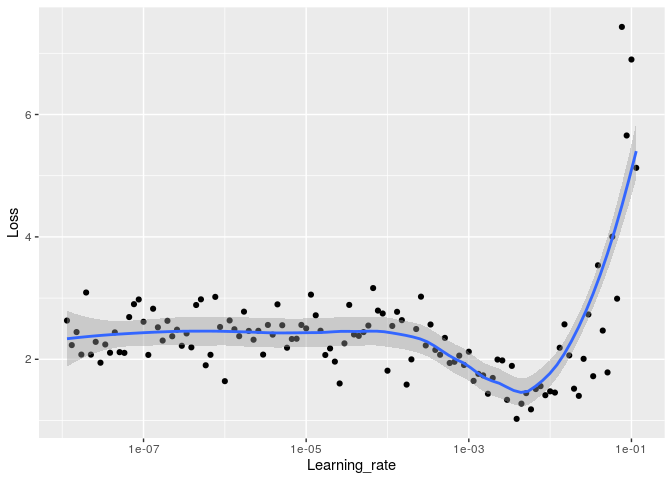
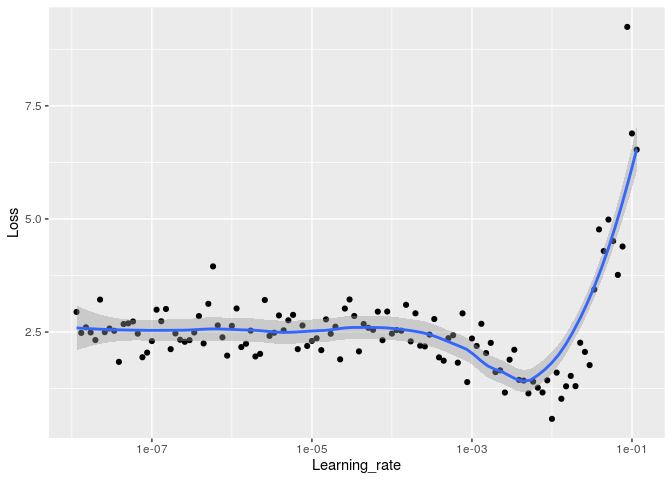
Lower minimum learning rate improve the performance of the network

diff --git a/resnet50-lr-finder-and-cyclic-lr-with-r.md b/resnet50-lr-finder-and-cyclic-lr-with-r.md
@@ -286,8 +286,8 @@ str(batch)
 ```
 
     ## List of 2
-    ##  $ : num [1:32, 1:224, 1:224, 1:3] 237.9 114.9 92.7 186.6 159.9 ...
-    ##  $ : num [1:32, 1:4] 0 0 0 1 1 0 1 0 0 0 ...
+    ##  $ : num [1:32, 1:224, 1:224, 1:3] 98.8 78.9 194.6 101.1 141.3 ...
+    ##  $ : num [1:32, 1:4] 0 0 0 0 0 0 0 1 0 0 ...
 
 # Import pre-trained model
 
@@ -331,7 +331,8 @@ fast\_ai](https://docs.fast.ai/vision.learner.html#create_head). Since
 there is a “funny” pooling operation, The AdaptiveConcatPool2d (adaptive
 average pooling and adaptive max pooling), I will use a max pooling,
 because we are most interresting to know if there is a rust or scab,
-that something on “average”.
+that something on “average”. Using layer\_global\_average\_pooling\_2d()
+did not improved the results.
 
 One of the most important aspect of deep learning is to set up a good
 loss function and last layer activation. Since it is a **multiclass**
@@ -470,12 +471,12 @@ head(data)
 ```
 
     ##   Learning_rate     Loss
-    ## 1  1.145048e-08 2.633336
-    ## 2  1.311134e-08 2.232244
-    ## 3  1.501311e-08 2.445387
-    ## 4  1.719072e-08 2.077112
-    ## 5  1.968419e-08 3.091516
-    ## 6  2.253934e-08 2.076675
+    ## 1  1.145048e-08 2.943327
+    ## 2  1.311134e-08 2.480806
+    ## 3  1.501311e-08 2.603610
+    ## 4  1.719072e-08 2.489615
+    ## 5  1.968419e-08 2.322310
+    ## 6  2.253934e-08 3.216194
 
 Learning rate vs loss
 :
@@ -621,16 +622,16 @@ batch (51 actually).
 
 ``` r
 n=50
-nb_epochs=30
+nb_epochs=20
 n_iter<-n*nb_epochs
 ```
 
 ``` r
-l_rate_cyclical <- Cyclic_LR(iteration=1:n, base_lr=1e-5, max_lr=1e-3, step_size=floor(n/2),
+l_rate_cyclical <- Cyclic_LR(iteration=1:n, base_lr=1e-6, max_lr=1e-3, step_size=floor(n/2),
                         mode='triangular', gamma=1, scale_fn=NULL, scale_mode='cycle')
 
 
-l_rate_cosine_annealing <- Cyclic_LR(iteration=1:n_iter, base_lr=1e-5, max_lr=1e-3, step_size=floor(n),
+l_rate_cosine_annealing <- Cyclic_LR(iteration=1:n_iter, base_lr=1e-6, max_lr=1e-3, step_size=floor(n),
                         mode='halfcosine', gamma=1, scale_fn=NULL, scale_mode='cycle')
 
 l_rate_cosine_annealing <- rep(l_rate_cosine_annealing[n:(n*2)])
@@ -715,4 +716,4 @@ plot(history)
 list.files("checkpoints/")
 ```
 
-    ## [1] "weights.01.hdf5"
+    ## [1] "weights.01.hdf5" "weights.02.hdf5" "weights.08.hdf5"
